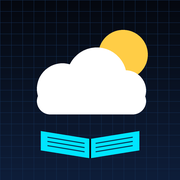
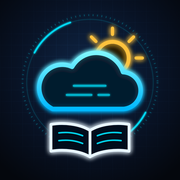
App-Symbol im Neon-Technik-Stil
Leuchtende Linien für Wolke, Sonne und Buch auf dunklem Raster mit
HUD-Ring. Die SVG-Vorlage liegt in icons/icon.svg.

Claude-Session: https://claude.ai/code/session_01GgY12dRUsFwavgnUin3PWA

diff --git a/sw.js b/sw.js
@@ -1,5 +1,5 @@
 // Offline-Unterstützung: App-Dateien und Psalmen werden zwischengespeichert.
-const CACHE = "wetter-psalm-v3";
+const CACHE = "wetter-psalm-v4";
 const ASSETS = [
   "./",
   "index.html",
